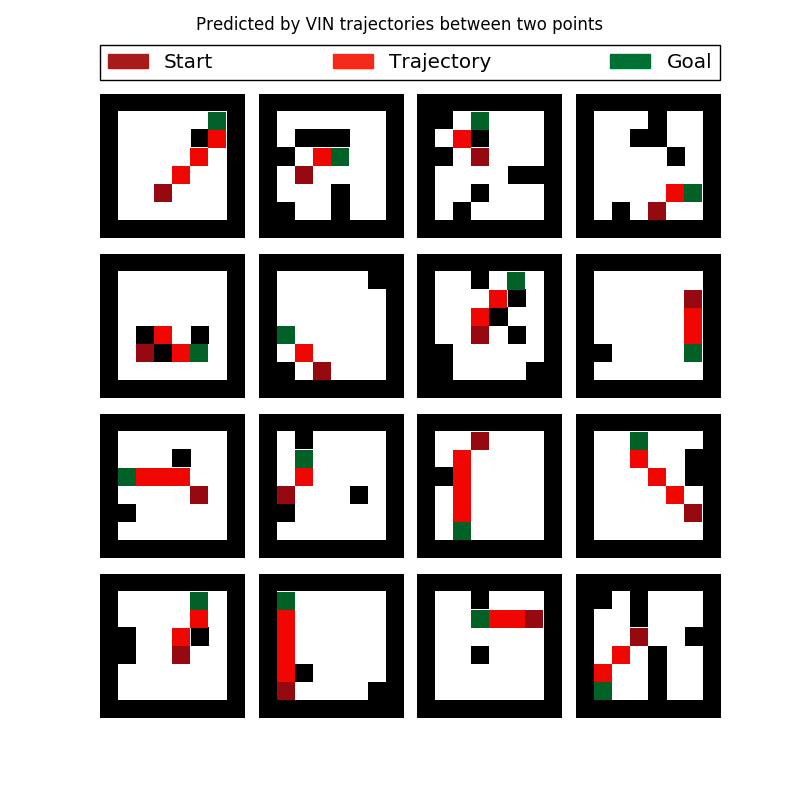
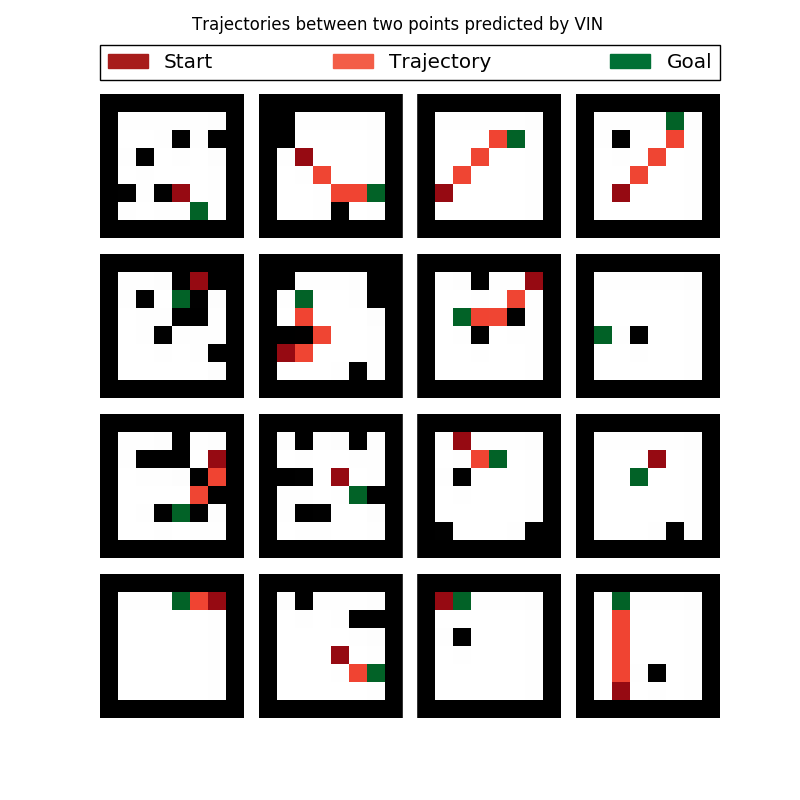
updated VIN example

diff --git a/examples/reinforcement_learning/vin/visualize.py b/examples/reinforcement_learning/vin/visualize.py
@@ -8,8 +8,9 @@ import matplotlib.patches as mpatches
 from neupy.utils import asfloat
 from neupy import environment, storage
 
-from loaddata import CURRENT_DIR, TRAIN_DATA, TEST_DATA, load_data
-from vin import PRETRAINED_NETWORK, create_VIN
+from loaddata import load_data
+from train_vin import parser, create_VIN
+from settings import environments
 
 
 actions = [
@@ -33,7 +34,7 @@ def int_as_2d_array(number):
     return asfloat(np.array([[number]]))
 
 
-def detect_trajectory(f_next_step, grid, coords, max_iter=20):
+def detect_trajectory(f_next_step, grid, coords, max_iter=200):
     trajectory = [coords]
     coord_x, coord_y = coords
     target_coords = get_target_coords(grid[0])
@@ -65,13 +66,13 @@ def plot_grid_and_trajectory(f_next_step, grid, coords):
     start_position[coords[0], coords[1]] = 1
 
     # Grid world map
-    plt.imshow(grid[0, 0], interpolation='nearest', cmap='binary')
+    plt.imshow(grid[0, 0], interpolation='none', cmap='binary')
 
     # Trajectory
-    cmap = plt.cm.jet
+    cmap = plt.cm.Reds
     cmap.set_under(alpha=0)
     plt.imshow(trajectory_grid, interpolation='none',
-               cmap=cmap, clim=[0.1, 1.1])
+               cmap=cmap, clim=[0.1, 1.6])
 
     # Start position
     cmap = plt.cm.Reds
@@ -85,6 +86,7 @@ def plot_grid_and_trajectory(f_next_step, grid, coords):
     plt.imshow(grid[0, 1] / 10., interpolation='none',
                cmap=cmap, clim=[0.1, 1.1])
 
+
 def sample_random_position(grid):
     obstacles_grid = grid[0, 0]
     x_coords, y_coords = np.argwhere(obstacles_grid == 0).T
@@ -94,28 +96,32 @@ def sample_random_position(grid):
 
 if __name__ == '__main__':
     environment.speedup()
-    x_test, _, _, _ = load_data(TRAIN_DATA)
+
+    args = parser.parse_args()
+    env = environments[args.imsize]
+
+    x_test, _, _, _ = load_data(env['test_data_file'])
 
     VIN = create_VIN(
-        input_image_shape=(2, 8, 8),
+        env['input_image_shape'],
         n_hidden_filters=150,
         n_state_filters=10,
-        k=10,
+        k=env['k'],
     )
-    storage.load(VIN, PRETRAINED_NETWORK)
+    storage.load(VIN, env['pretrained_network_file'])
     predict = VIN.compile()
 
     plt.figure(figsize=(8, 8))
     gridspec = gridspec.GridSpec(5, 4, height_ratios=[0, 2, 2, 2, 2])
     gridspec.update(wspace=0.1, hspace=0.1)
 
-    plt.suptitle('Predicted by VIN trajectories between two points')
+    plt.suptitle('Trajectories between two points predicted by VIN ')
 
     plt.subplot(gridspec[0, :])
     plt.legend(
         handles=[
             mpatches.Patch(color='#A71C1B', label='Start'),
-            mpatches.Patch(color='#F32919', label='Trajectory'),
+            mpatches.Patch(color='#F35D47', label='Trajectory'),
             mpatches.Patch(color='#007035', label='Goal'),
         ],
         loc=3,

diff --git a/examples/reinforcement_learning/vin/train_vin.py b/examples/reinforcement_learning/vin/train_vin.py
@@ -1,4 +1,5 @@
 import os
+import argparse
 from functools import partial
 
 import theano
@@ -8,11 +9,13 @@ import numpy as np
 from neupy.utils import as_tuple, asfloat, asint
 from neupy import layers, init, algorithms, environment, storage
 
-from loaddata import CURRENT_DIR, TRAIN_DATA, TEST_DATA, load_data
+from loaddata import load_data
+from settings import MODELS_DIR, environments
 
 
-FILES_DIR = os.path.join(CURRENT_DIR, 'files')
-PRETRAINED_NETWORK = os.path.join(FILES_DIR, 'pretrained-VIN.pickle')
+parser = argparse.ArgumentParser()
+parser.add_argument('--imsize', '-i', choices=[8, 16, 28],
+                    type=int, required=True)
 
 
 def random_weight(shape):
@@ -118,32 +121,51 @@ def loss_function(expected, predicted):
     return -T.mean(errors)
 
 
+def on_epoch_end(network):
+    steps = {
+        30: 0.005,
+        60: 0.002,
+        90: 0.001,
+    }
+
+    storage.save(network,
+                 'models/vin-28-epoch-{}.pickle'.format(network.last_epoch))
+
+    if network.last_epoch in steps:
+        new_step = steps[network.last_epoch]
+        network.variables.step.set_value(new_step)
+
+
 if __name__ == '__main__':
     environment.speedup()
-    environment.reproducible()
+    # environment.reproducible()
 
-    x_train, s1_train, s2_train, y_train = load_data(TRAIN_DATA)
-    x_test, s1_test, s2_test, y_test = load_data(TEST_DATA)
+    args = parser.parse_args()
+    env = environments[args.imsize]
+
+    x_train, s1_train, s2_train, y_train = load_data(env['train_data_file'])
+    x_test, s1_test, s2_test, y_test = load_data(env['train_data_file'])
 
     network = algorithms.RMSProp(
         create_VIN(
-            input_image_shape=(2, 8, 8),
+            env['input_image_shape'],
             n_hidden_filters=150,
             n_state_filters=10,
-            k=10,
+            k=env['k'],
         ),
 
         step=0.01,
         verbose=True,
         batch_size=12,
         error=loss_function,
+        epoch_end_signal=on_epoch_end,
 
         decay=0.9,
         epsilon=1e-6,
     )
     network.train((x_train, s1_train, s2_train), y_train,
                   (x_test, s1_test, s2_test), y_test,
-                  epochs=30)
+                  epochs=120)
 
     y_predicted = network.predict((x_test, s1_test, s2_test))
     y_predicted = np.argmax(y_predicted, axis=1)
@@ -151,7 +173,7 @@ if __name__ == '__main__':
     accuracy = (y_predicted == y_test.flatten()).mean()
     print("Test accuracy: {:.2%}".format(accuracy))
 
-    if not os.path.exists(FILES_DIR):
-        os.mkdir(FILES_DIR)
+    if not os.path.exists(MODELS_DIR):
+        os.mkdir(MODELS_DIR)
 
-    storage.save(network, PRETRAINED_NETWORK)
+    storage.save(network, env['pretrained_network_file'])

diff --git a/examples/reinforcement_learning/vin/loaddata.py b/examples/reinforcement_learning/vin/loaddata.py
@@ -1,5 +1,7 @@
 import os
 import pickle
+import argparse
+from collections import namedtuple
 
 import theano
 import scipy.io
@@ -7,12 +9,7 @@ import numpy as np
 from sklearn.utils import shuffle
 from neupy.utils import asfloat
 
-
-CURRENT_DIR = os.path.abspath(os.path.dirname(__file__))
-DATA_DIR = os.path.join(CURRENT_DIR, 'data')
-MAT_DATA = os.path.join(DATA_DIR, 'gridworld_8.mat')
-TRAIN_DATA = os.path.join(DATA_DIR, 'gridworld-8-train.pickle')
-TEST_DATA = os.path.join(DATA_DIR, 'gridworld-8-test.pickle')
+from settings import environments
 
 
 def save_data(data, filepath):
@@ -25,12 +22,18 @@ def load_data(filepath):
         return pickle.load(f)
 
 
+parser = argparse.ArgumentParser()
+parser.add_argument('--seed', '-s', type=int, default=0)
+parser.add_argument('--imsize', '-i', choices=[8, 16, 28],
+                    type=int, required=True)
+
 if __name__ == '__main__':
-    np.random.seed(0)
+    args = parser.parse_args()
 
-    im_size = (8, 8)
+    env = environments[args.imsize]
+    np.random.seed(args.seed)
 
-    matlab_data = scipy.io.loadmat(MAT_DATA)
+    matlab_data = scipy.io.loadmat(env['mat_file'])
     image_data = matlab_data["batch_im_data"]
     image_data = (image_data - 1) / 255.  # obstacles = 1, free zone = 0
 
@@ -39,8 +42,9 @@ if __name__ == '__main__':
     s2_data = matlab_data["state_y_data"].astype('int8')
     y_data = matlab_data["batch_label_data"].astype('int8')
 
-    image_data = asfloat(image_data.reshape(-1, 1, *im_size))
-    value_data = asfloat(value_data.reshape(-1, 1, *im_size))
+    image_data = asfloat(image_data.reshape(-1, 1, *env['image_size']))
+    value_data = asfloat(value_data.reshape(-1, 1, *env['image_size']))
+
     x_data = np.append(image_data, value_data, axis=1)
     n_samples = x_data.shape[0]
 
@@ -54,5 +58,5 @@ if __name__ == '__main__':
     x_train, s1_train, s2_train, y_train = shuffle(
         x_train, s1_train, s2_train, y_train)
 
-    save_data((x_train, s1_train, s2_train, y_train), TRAIN_DATA)
-    save_data((x_test, s1_test, s2_test, y_test), TEST_DATA)
+    save_data((x_train, s1_train, s2_train, y_train), env['train_data_file'])
+    save_data((x_test, s1_test, s2_test, y_test), env['test_data_file'])

diff --git a/examples/reinforcement_learning/vin/settings.py b/examples/reinforcement_learning/vin/settings.py
@@ -1,0 +1,39 @@
+import os
+
+
+CURRENT_DIR = os.path.abspath(os.path.dirname(__file__))
+DATA_DIR = os.path.join(CURRENT_DIR, 'data')
+MODELS_DIR = os.path.join(CURRENT_DIR, 'models')
+
+environments = {
+    8: dict(
+        mat_file=os.path.join(DATA_DIR, 'gridworld_8.mat'),
+        train_data_file=os.path.join(DATA_DIR, 'gridworld-8-train.pickle'),
+        test_data_file=os.path.join(DATA_DIR, 'gridworld-8-test.pickle'),
+        pretrained_network_file=os.path.join(MODELS_DIR,
+                                             'pretrained-VIN-8.pickle'),
+        input_image_shape=(2, 8, 8),
+        image_size=(8, 8),
+        k=10,
+    ),
+    16: dict(
+        mat_file=os.path.join(DATA_DIR, 'gridworld_16.mat'),
+        train_data_file=os.path.join(DATA_DIR, 'gridworld-16-train.pickle'),
+        test_data_file=os.path.join(DATA_DIR, 'gridworld-16-test.pickle'),
+        pretrained_network_file=os.path.join(MODELS_DIR,
+                                             'pretrained-VIN-16.pickle'),
+        input_image_shape=(2, 16, 16),
+        image_size=(16, 16),
+        k=20,
+    ),
+    28: dict(
+        mat_file=os.path.join(DATA_DIR, 'gridworld_28.mat'),
+        train_data_file=os.path.join(DATA_DIR, 'gridworld-28-train.pickle'),
+        test_data_file=os.path.join(DATA_DIR, 'gridworld-28-test.pickle'),
+        pretrained_network_file=os.path.join(MODELS_DIR,
+                                             'pretrained-VIN-28.pickle'),
+        input_image_shape=(2, 28, 28),
+        image_size=(28, 28),
+        k=36,
+    ),
+}

diff --git a/examples/reinforcement_learning/vin/README.rst b/examples/reinforcement_learning/vin/README.rst
@@ -12,7 +12,7 @@ Code description
     :header: "File name", "Description"
 
     "loaddata.py","Read data from MAT file, split it into train and test samples and store everything in pickle files"
-    "vin.py","Train VIN and validate its accuracy"
+    "train_vin.py","Train VIN and validate its accuracy"
     "visualize.py","Sample a few grids from test samples and visualize trajectory predicted by the pretrained network"
 
 Usage
@@ -22,7 +22,7 @@ To train network you need to run following command
 
 .. code-block:: bash
 
-    $ python vin.py
+    $ python train_vin.py --imsize=8
 
 Visualizations
 --------------
@@ -30,6 +30,21 @@ Visualizations
 8x8 Grid world
 ~~~~~~~~~~~~~~
 
+.. code-block:: bash
+
+    $ python visualize.py --imsize=8
+
 .. image:: images/8x8-gridworld-trajectories.png
+    :width: 50%
+    :align: center
+
+16x16 Grid world
+~~~~~~~~~~~~~~~~
+
+.. code-block:: bash
+
+    $ python visualize.py --imsize=16
+
+.. image:: images/16x16-gridworld-trajectories.png
     :width: 50%
     :align: center
